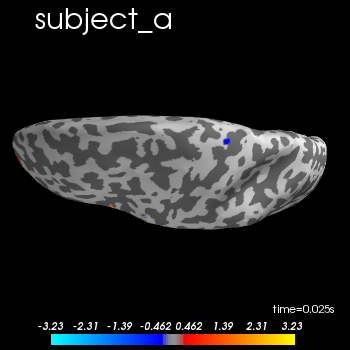
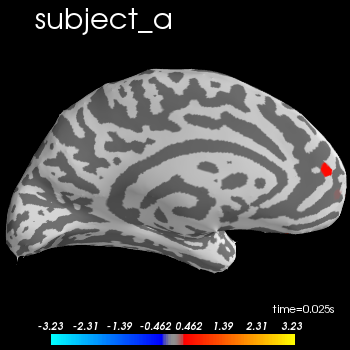
rebuilt docs

diff --git a/searchindex.js b/searchindex.js
@@ -1,1 +1,1 @@
-Search.setIndex({docnames:["api","auto_examples/index","auto_examples/plot_group_lasso","auto_examples/plot_process_meg","auto_examples/sg_execution_times","generated/groupmne.compute_fwd","generated/groupmne.compute_group_inverse","generated/groupmne.compute_inv_data","index"],envversion:{"sphinx.domains.c":1,"sphinx.domains.changeset":1,"sphinx.domains.citation":1,"sphinx.domains.cpp":1,"sphinx.domains.javascript":1,"sphinx.domains.math":2,"sphinx.domains.python":1,"sphinx.domains.rst":1,"sphinx.domains.std":1,"sphinx.ext.intersphinx":1,"sphinx.ext.viewcode":1,sphinx:56},filenames:["api.rst","auto_examples/index.rst","auto_examples/plot_group_lasso.rst","auto_examples/plot_process_meg.rst","auto_examples/sg_execution_times.rst","generated/groupmne.compute_fwd.rst","generated/groupmne.compute_group_inverse.rst","generated/groupmne.compute_inv_data.rst","index.rst"],objects:{groupmne:{compute_fwd:[5,0,1,""],compute_group_inverse:[6,0,1,""],compute_inv_data:[7,0,1,""]}},objnames:{"0":["py","function","Python function"]},objtypes:{"0":"py:function"},terms:{"300m":[2,3],"50m":[2,3],"default":6,"final":7,"float":[6,7],"function":[0,2],"import":[2,3],"int":6,"return":[2,3,6,7],"true":[2,3,6],"while":[],Doing:2,For:[2,6,8],IDs:2,Not:2,The:[2,3,6,8],Using:[2,7],abs:2,across:[2,6,7],activ:[2,6,8],add_proj:[],add_text:2,addit:6,after:[2,3],aim:[2,3],align:[2,7],all:[1,6,8],alpha:[2,6],alpha_max:6,ani:8,append:[2,3],appli:2,argument:6,arrai:[6,7],aspect:[],assum:[],author:[2,3],auto_exampl:4,auto_examples_jupyt:1,auto_examples_python:1,autossp:2,avail:2,ave:[],averag:[2,3],axes:[2,3],baselin:[2,3],been:[],befor:[2,3],bem:2,bem_fnam:5,bem_fname_:2,between:2,bind:8,bool:6,brain:2,bsd:[2,3],bug:8,call:[],can:[2,7],categori:[],ch_type:[2,7],channel:[2,7],claus:[2,3],click:[2,3],clim:2,clone:8,closer:2,code:[1,2,3],com:8,compens:2,comput:[2,3,7],compute_covari:[2,3],compute_fwd:2,compute_gain:6,compute_group_invers:2,compute_inv_data:[2,6],conda:8,condit:[2,3],congruent:8,consid:[],contain:2,correct:2,cov:[2,3,7],cov_fnam:[2,3],cov_nam:[],cov_name_:[],covari:[2,3,7],creat:[2,8],ctf:[],current:2,data:[6,7],data_path:[2,3],dataset:[2,3],decim:2,def:[2,3],del:3,depth:[2,6],develop:8,dict:[2,3,6,7],dictionari:2,dim:2,dimens:2,document:[],done:6,dorsal:2,download:1,each:[2,3,6,7],eeg:[6,7,8],eigenvalu:2,element:7,els:2,encount:8,end:[2,3],env:8,environ:[2,3,8],eof:[],epoch:[2,3],epochs_:2,eps:2,estim:[2,3,6,7],ev_nam:[],ev_name_:[],event:[2,3],event_id:[2,3],evok:[2,7],evoked_:[2,3],exampl:[2,3],execut:4,exist:2,expandus:[2,3],fals:[2,3],fetch:2,few:[2,3],fif:[2,3],file:[2,4,8],find_ev:[2,3],first:[2,3],follow:2,fontsiz:[2,3],forward:[6,7],found:2,fraction:6,freesurf:2,frequenc:2,from:[2,3],fsaverag:[2,5],full:[2,3],further:8,fwd:[2,7],gain:[2,6,7],galleri:[1,2,3],gener:[2,3],geometri:2,get_epoch_cov:3,get_src_refer:2,git:8,github:8,grad:[2,3,7],grade:2,group:[3,6,7],group_info:[2,6,7],group_model:[2,6],grouplasso:[2,6],groupmn:[2,8],guarante:2,gyri:2,have:[],help:8,hemi:2,here:[2,3],hf_sef:[2,3],hf_sef_15min:[],hf_sef_15min_raw:[2,3],hicham:[2,3,8],hichamjanati:[2,8],high:2,how:[2,3],http:8,hyperparamet:6,ico:2,icosahedr:2,icosahedron:2,idl:2,improv:2,independ:6,info:[2,3,5],inform:[7,8],initi:7,initial_tim:2,inria:[2,3,8],instanc:7,instant:[2,3],interest:[],introductori:1,invalid:[],invers:[6,8],ipynb:[2,3],item:2,janati:[2,3,8],joint:[1,4,6],jointli:[3,8],jupyt:[1,2,3],kind:2,kwarg:6,lasso:[3,6],last:[],later:2,leverag:2,licens:[2,3],line:[],list:7,load:2,local:[1,4,6],locat:2,log:2,mag:[2,7],mani:8,map:[2,7],match:2,matplotlib:[2,3],matric:7,matrix:2,max:2,mean:[2,3],meg:8,meg_path:[2,3],memori:[],metadata:2,method:[2,6],mindist:[2,5],minim:8,minut:[2,3],mne:[2,3],mne_data:2,mode:2,model:[1,4,6,7],more:7,morph:[2,5,7],most:[],mri:2,multi:[1,4],n_channel:[6,7],n_job:[2,6],n_sourc:[2,6,7],n_subject:[6,7],n_time:[6,7],nave:[],nearest:2,need:2,neighbor:2,nois:[2,3,7],noise_cov:2,noise_cov_:[2,3,7],none:[2,3,5],normal:[2,6],notebook:[1,2,3],now:[2,6],nurminen:2,object:6,omit:2,one:[2,7],onli:[2,6],open:2,oper:[2,7],option:6,otherwis:[6,8],out:2,overlap:6,packag:8,parallel:2,parallel_func:2,paramet:[2,6,7],pars:[],pass:6,path:[2,3],pattern:2,pca:2,perform:8,pick:[2,3],pick_typ:[2,3],pleas:8,plot:[2,3],plot_group_lasso:[2,4],plot_process_meg:3,plt:[2,3],point:[2,6,7],pos_lim:2,print:[2,3],problem:[6,8],process:[],process_meg:2,proj:[2,3],project:2,projector:2,promot:6,provid:2,purpos:[2,3],pyplot:[2,3],python:[1,2,3,8],rang:2,rank:2,ravel:[2,3],raw:[2,3],raw_nam:[2,3],raw_name_:[2,3],read:2,read_cov:2,read_evok:[],read_raw_fif:[2,3],readi:2,recent:[],recommend:8,reconstruct:7,refer:7,regular:[6,8],requir:2,resolut:2,respect:7,return_stc:[2,6],run:2,run_func:2,same:2,script:2,sec:2,second:2,see:[3,8],sef:[2,3],sef_right:[],sef_right_raw:[2,3],select:2,self:[],set:[2,6],set_titl:[2,3],setup:8,shape:2,sharei:[2,3],show:[2,3],shown:[],similar:2,sinc:2,singular:2,size:2,small:[2,8],smoothing_step:2,sol:2,solv:[6,8],solver:6,sourc:[1,3,4,5,6,7],sourcespac:7,space:[2,5,7],specifi:[],sphere:2,sphinx:[1,2,3],src_ref:[2,5,7],ssp:2,start:[2,3],stc:[2,6],step:2,str:[6,7],subdivis:2,subj:[2,3],subject:[1,4,5,6,7],subject_:[2,3],subject_a:[2,3],subject_b:[2,3],subjects_dir:[2,3,5],subplot:[2,3],subspac:2,sulci:2,support:[6,7],surf:2,surfac:2,surfer_kwarg:2,syntax:[],syntaxerror:[],t_idx:2,take:[2,3],task:[1,4],than:7,thi:[2,3,8],time:[2,6,7],time_as_index:2,time_unit:2,titl:2,tmax:[2,3,7],tmin:[2,3,7],toler:2,total:[2,4],traceback:[],tran:2,trans_fnam:5,trans_fname_:2,treat:6,triangl:2,triangul:2,trigger:[2,3],tutori:[2,3,8],two:2,type:7,unexpect:[],usag:[],use:[2,6],used:7,user:2,using:[2,8],valu:2,ventral:[],version:8,vertex:2,vertic:6,view:2,visual:[],want:2,warn:2,webpag:[],weight:6,which:[2,6],white:2,whiten:[2,7],without:2,work:8,write_cov:[2,3],yet:7,yml:8,you:2,zero:2,zip:[1,2,3]},titles:["API Documentation","General examples","Multi-subject joint source localization with multi-task models","Multi-subject MEG processing","Computation times","groupmne.compute_fwd","groupmne.compute_group_inverse","groupmne.compute_inv_data","multi-subject source localization with MNE"],titleterms:{api:0,code:0,comput:4,compute_fwd:5,compute_group_invers:6,compute_inv_data:7,contact:8,data:[2,3],descript:8,document:0,download:[2,3],exampl:[1,8],forward:2,gener:1,groupmn:[5,6,7],instal:8,invers:2,joint:2,local:[2,8],meg:[2,3],mne:8,model:2,multi:[2,3,8],problem:2,process:[2,3],solv:2,sourc:[2,8],subject:[2,3,8],syntaxerror:[],task:2,time:4}})
+Search.setIndex({docnames:["api","auto_examples/index","auto_examples/plot_group_lasso","auto_examples/plot_process_meg","auto_examples/sg_execution_times","generated/groupmne.compute_fwd","generated/groupmne.compute_group_inverse","generated/groupmne.compute_inv_data","index"],envversion:{"sphinx.domains.c":1,"sphinx.domains.changeset":1,"sphinx.domains.citation":1,"sphinx.domains.cpp":1,"sphinx.domains.javascript":1,"sphinx.domains.math":2,"sphinx.domains.python":1,"sphinx.domains.rst":1,"sphinx.domains.std":1,"sphinx.ext.intersphinx":1,"sphinx.ext.viewcode":1,sphinx:56},filenames:["api.rst","auto_examples/index.rst","auto_examples/plot_group_lasso.rst","auto_examples/plot_process_meg.rst","auto_examples/sg_execution_times.rst","generated/groupmne.compute_fwd.rst","generated/groupmne.compute_group_inverse.rst","generated/groupmne.compute_inv_data.rst","index.rst"],objects:{groupmne:{compute_fwd:[5,0,1,""],compute_group_inverse:[6,0,1,""],compute_inv_data:[7,0,1,""]}},objnames:{"0":["py","function","Python function"]},objtypes:{"0":"py:function"},terms:{"300m":[2,3],"50m":[2,3],"default":6,"final":7,"float":[6,7],"function":[0,2],"import":[2,3],"int":6,"return":[2,3,6,7],"true":[2,3,6],"while":[],Doing:2,For:[2,6,8],IDs:2,Not:2,The:[2,3,6,8],Using:[2,7],abs:2,across:[2,6,7],activ:[2,6,8],add_proj:[],add_text:2,addit:6,after:[2,3],aim:[2,3],align:[2,7],all:[1,6,8],alpha:[2,6],alpha_max:6,ani:8,append:[2,3],appli:2,argument:6,arrai:[6,7],aspect:[],assum:[],author:[2,3],auto_exampl:4,auto_examples_jupyt:1,auto_examples_python:1,autossp:2,avail:2,ave:[],averag:[2,3],axes:[2,3],baselin:[2,3],been:[],befor:[2,3],bem:2,bem_fnam:5,bem_fname_:2,between:2,bind:8,bool:6,brain:2,bsd:[2,3],bug:8,call:[],can:[2,7],categori:[],ch_type:[2,7],channel:[2,7],claus:[2,3],click:[2,3],clim:2,clone:8,closer:2,code:[1,2,3],com:8,compens:2,comput:[2,3,7],compute_covari:[2,3],compute_fwd:2,compute_gain:6,compute_group_invers:2,compute_inv_data:[2,6],conda:8,condit:[2,3],congruent:8,consid:[],contain:2,correct:2,cov:[2,3,7],cov_fnam:[2,3],cov_nam:[],cov_name_:[],covari:[2,3,7],creat:[2,8],ctf:[],current:2,data:[6,7],data_path:[2,3],dataset:[2,3],decim:2,def:[2,3],del:3,depth:[2,6],develop:8,dict:[2,3,6,7],dictionari:2,dim:2,dimens:2,document:[],done:6,dorsal:[],download:1,each:[2,3,6,7],eeg:[6,7,8],eigenvalu:2,element:7,els:2,encount:8,end:[2,3],env:8,environ:[2,3,8],eof:[],epoch:[2,3],epochs_:2,eps:2,estim:[2,3,6,7],ev_nam:[],ev_name_:[],event:[2,3],event_id:[2,3],evok:[2,7],evoked_:[2,3],exampl:[2,3],execut:4,exist:2,expandus:[2,3],fals:[2,3],fetch:2,few:[2,3],fif:[2,3],file:[2,4,8],find_ev:[2,3],first:[2,3],follow:2,fontsiz:[2,3],forward:[6,7],found:2,fraction:6,freesurf:2,frequenc:2,from:[2,3],fsaverag:[2,5],full:[2,3],further:8,fwd:[2,7],gain:[2,6,7],galleri:[1,2,3],gener:[2,3],geometri:2,get_epoch_cov:3,get_src_refer:2,git:8,github:8,grad:[2,3,7],grade:2,group:[3,6,7],group_info:[2,6,7],group_model:[2,6],grouplasso:[2,6],groupmn:[2,8],guarante:2,gyri:2,have:[],help:8,hemi:2,here:[2,3],hf_sef:[2,3],hf_sef_15min:[],hf_sef_15min_raw:[2,3],hicham:[2,3,8],hichamjanati:[2,8],high:2,how:[2,3],http:8,hyperparamet:6,ico:2,icosahedr:2,icosahedron:2,idl:2,improv:2,independ:6,info:[2,3,5],inform:[7,8],initi:7,initial_tim:2,inria:[2,3,8],instanc:7,instant:[2,3],interest:[],introductori:1,invalid:[],invers:[6,8],ipynb:[2,3],item:2,janati:[2,3,8],joint:[1,4,6],jointli:[3,8],jupyt:[1,2,3],kind:2,kwarg:6,lasso:[3,6],last:[],later:2,leverag:2,licens:[2,3],line:[],list:7,load:2,local:[1,4,6],locat:2,log:2,mag:[2,7],mani:8,map:[2,7],match:2,matplotlib:[2,3],matric:7,matrix:2,max:2,mean:[2,3],medial:2,meg:8,meg_path:[2,3],memori:[],metadata:2,method:[2,6],mindist:[2,5],minim:8,minut:[2,3],mne:[2,3],mne_data:2,mode:2,model:[1,4,6,7],more:7,morph:[2,5,7],most:[],mri:2,multi:[1,4],n_channel:[6,7],n_job:[2,6],n_sourc:[2,6,7],n_subject:[6,7],n_time:[6,7],nave:[],nearest:2,need:2,neighbor:2,nois:[2,3,7],noise_cov:2,noise_cov_:[2,3,7],none:[2,3,5],normal:[2,6],notebook:[1,2,3],now:[2,6],nurminen:2,object:6,omit:2,one:[2,7],onli:[2,6],open:2,oper:[2,7],option:6,otherwis:[6,8],out:2,overlap:6,packag:8,parallel:2,parallel_func:2,paramet:[2,6,7],pars:[],pass:6,path:[2,3],pattern:2,pca:2,perform:8,pick:[2,3],pick_typ:[2,3],pleas:8,plot:[2,3],plot_group_lasso:[2,4],plot_process_meg:3,plt:[2,3],point:[2,6,7],pos_lim:2,print:[2,3],problem:[6,8],process:[],process_meg:2,proj:[2,3],project:2,projector:2,promot:6,provid:2,purpos:[2,3],pyplot:[2,3],python:[1,2,3,8],rang:2,rank:2,ravel:[2,3],raw:[2,3],raw_nam:[2,3],raw_name_:[2,3],read:2,read_cov:2,read_evok:[],read_raw_fif:[2,3],readi:2,recent:[],recommend:8,reconstruct:7,refer:7,regular:[6,8],requir:2,resolut:2,respect:7,return_stc:[2,6],run:2,run_func:2,same:2,script:2,sec:2,second:2,see:[3,8],sef:[2,3],sef_right:[],sef_right_raw:[2,3],select:2,self:[],set:[2,6],set_titl:[2,3],setup:8,shape:2,sharei:[2,3],show:[2,3],shown:[],similar:2,sinc:2,singular:2,size:2,small:[2,8],smoothing_step:2,sol:2,solv:[6,8],solver:6,sourc:[1,3,4,5,6,7],sourcespac:7,space:[2,5,7],specifi:[],sphere:2,sphinx:[1,2,3],src_ref:[2,5,7],ssp:2,start:[2,3],stc:[2,6],step:2,str:[6,7],subdivis:2,subj:[2,3],subject:[1,4,5,6,7],subject_:[2,3],subject_a:[2,3],subject_b:[2,3],subjects_dir:[2,3,5],subplot:[2,3],subspac:2,sulci:2,support:[6,7],surf:2,surfac:2,surfer_kwarg:2,syntax:[],syntaxerror:[],t_idx:2,take:[2,3],task:[1,4],than:7,thi:[2,3,8],time:[2,6,7],time_as_index:2,time_unit:2,titl:2,tmax:[2,3,7],tmin:[2,3,7],toler:2,total:[2,4],traceback:[],tran:2,trans_fnam:5,trans_fname_:2,treat:6,triangl:2,triangul:2,trigger:[2,3],tutori:[2,3,8],two:2,type:7,unexpect:[],usag:[],use:[2,6],used:7,user:2,using:[2,8],valu:2,ventral:[],version:8,vertex:2,vertic:6,view:2,visual:[],want:2,warn:2,webpag:[],weight:6,which:[2,6],white:2,whiten:[2,7],without:2,work:8,write_cov:[2,3],yet:7,yml:8,you:2,zero:2,zip:[1,2,3]},titles:["API Documentation","General examples","Multi-subject joint source localization with multi-task models","Multi-subject MEG processing","Computation times","groupmne.compute_fwd","groupmne.compute_group_inverse","groupmne.compute_inv_data","multi-subject source localization with MNE"],titleterms:{api:0,code:0,comput:4,compute_fwd:5,compute_group_invers:6,compute_inv_data:7,contact:8,data:[2,3],descript:8,document:0,download:[2,3],exampl:[1,8],forward:2,gener:1,groupmn:[5,6,7],instal:8,invers:2,joint:2,local:[2,8],meg:[2,3],mne:8,model:2,multi:[2,3,8],problem:2,process:[2,3],solv:2,sourc:[2,8],subject:[2,3,8],syntaxerror:[],task:2,time:4}})

diff --git a/auto_examples/plot_group_lasso.html b/auto_examples/plot_group_lasso.html
@@ -402,7 +402,7 @@ Computing data rank from covariance with rank=None
 
 <span class="n">t</span> <span class="o">=</span> <span class="mf">0.025</span>
 <span class="n">t_idx</span> <span class="o">=</span> <span class="n">stcs</span><span class="p">[</span><span class="mi">0</span><span class="p">]</span><span class="o">.</span><span class="n">time_as_index</span><span class="p">(</span><span class="n">t</span><span class="p">)</span>
-<span class="k">for</span> <span class="n">view</span> <span class="ow">in</span> <span class="p">[</span><span class="s2">&quot;lateral&quot;</span><span class="p">,</span> <span class="s2">&quot;dorsal&quot;</span><span class="p">]:</span>
+<span class="k">for</span> <span class="n">view</span> <span class="ow">in</span> <span class="p">[</span><span class="s2">&quot;lateral&quot;</span><span class="p">,</span> <span class="s2">&quot;medial&quot;</span><span class="p">]:</span>
     <span class="k">for</span> <span class="n">stc</span><span class="p">,</span> <span class="n">subject</span> <span class="ow">in</span> <span class="nb">zip</span><span class="p">(</span><span class="n">stcs</span><span class="p">,</span> <span class="n">subjects</span><span class="p">):</span>
         <span class="n">m</span> <span class="o">=</span> <span class="nb">abs</span><span class="p">(</span><span class="n">stc</span><span class="o">.</span><span class="n">data</span><span class="p">[:</span><span class="n">group_info</span><span class="p">[</span><span class="s2">&quot;n_sources&quot;</span><span class="p">][</span><span class="mi">0</span><span class="p">],</span> <span class="n">t_idx</span><span class="p">])</span><span class="o">.</span><span class="n">max</span><span class="p">()</span>
         <span class="n">surfer_kwargs</span> <span class="o">=</span> <span class="nb">dict</span><span class="p">(</span>
@@ -424,7 +424,7 @@ Computing data rank from covariance with rank=None
 <li><img alt="../_images/sphx_glr_plot_group_lasso_005.png" class="sphx-glr-multi-img" src="../_images/sphx_glr_plot_group_lasso_005.png" />
 </li>
 </ul>
-<p class="sphx-glr-timing"><strong>Total running time of the script:</strong> ( 2 minutes  53.833 seconds)</p>
+<p class="sphx-glr-timing"><strong>Total running time of the script:</strong> ( 3 minutes  7.395 seconds)</p>
 <div class="sphx-glr-footer class sphx-glr-footer-example docutils container" id="sphx-glr-download-auto-examples-plot-group-lasso-py">
 <div class="sphx-glr-download docutils container">
 <p><a class="reference download internal" download="" href="../_downloads/e66cf913a6355c593439c84a85c97b44/plot_group_lasso.py"><code class="xref download docutils literal notranslate"><span class="pre">Download</span> <span class="pre">Python</span> <span class="pre">source</span> <span class="pre">code:</span> <span class="pre">plot_group_lasso.py</span></code></a></p>

diff --git a/auto_examples/sg_execution_times.html b/auto_examples/sg_execution_times.html
@@ -113,9 +113,9 @@
       
   <div class="section" id="computation-times">
 <span id="sphx-glr-auto-examples-sg-execution-times"></span><h1>Computation times<a class="headerlink" href="#computation-times" title="Permalink to this headline">¶</a></h1>
-<p><strong>02:53.833</strong> total execution time for <strong>auto_examples</strong> files:</p>
+<p><strong>03:07.395</strong> total execution time for <strong>auto_examples</strong> files:</p>
 <ul class="simple">
-<li><p><strong>02:53.833</strong>: <a class="reference internal" href="plot_group_lasso.html#sphx-glr-auto-examples-plot-group-lasso-py"><span class="std std-ref">Multi-subject joint source localization with multi-task models</span></a> (<code class="docutils literal notranslate"><span class="pre">plot_group_lasso.py</span></code>)</p></li>
+<li><p><strong>03:07.395</strong>: <a class="reference internal" href="plot_group_lasso.html#sphx-glr-auto-examples-plot-group-lasso-py"><span class="std std-ref">Multi-subject joint source localization with multi-task models</span></a> (<code class="docutils literal notranslate"><span class="pre">plot_group_lasso.py</span></code>)</p></li>
 </ul>
 </div>
 

diff --git a/_downloads/e66cf913a6355c593439c84a85c97b44/plot_group_lasso.py b/_downloads/e66cf913a6355c593439c84a85c97b44/plot_group_lasso.py
@@ -130,7 +130,7 @@ stcs, log = compute_group_inverse(gains, M, group_info,
 
 t = 0.025
 t_idx = stcs[0].time_as_index(t)
-for view in ["lateral", "dorsal"]:
+for view in ["lateral", "medial"]:
     for stc, subject in zip(stcs, subjects):
         m = abs(stc.data[:group_info["n_sources"][0], t_idx]).max()
         surfer_kwargs = dict(
